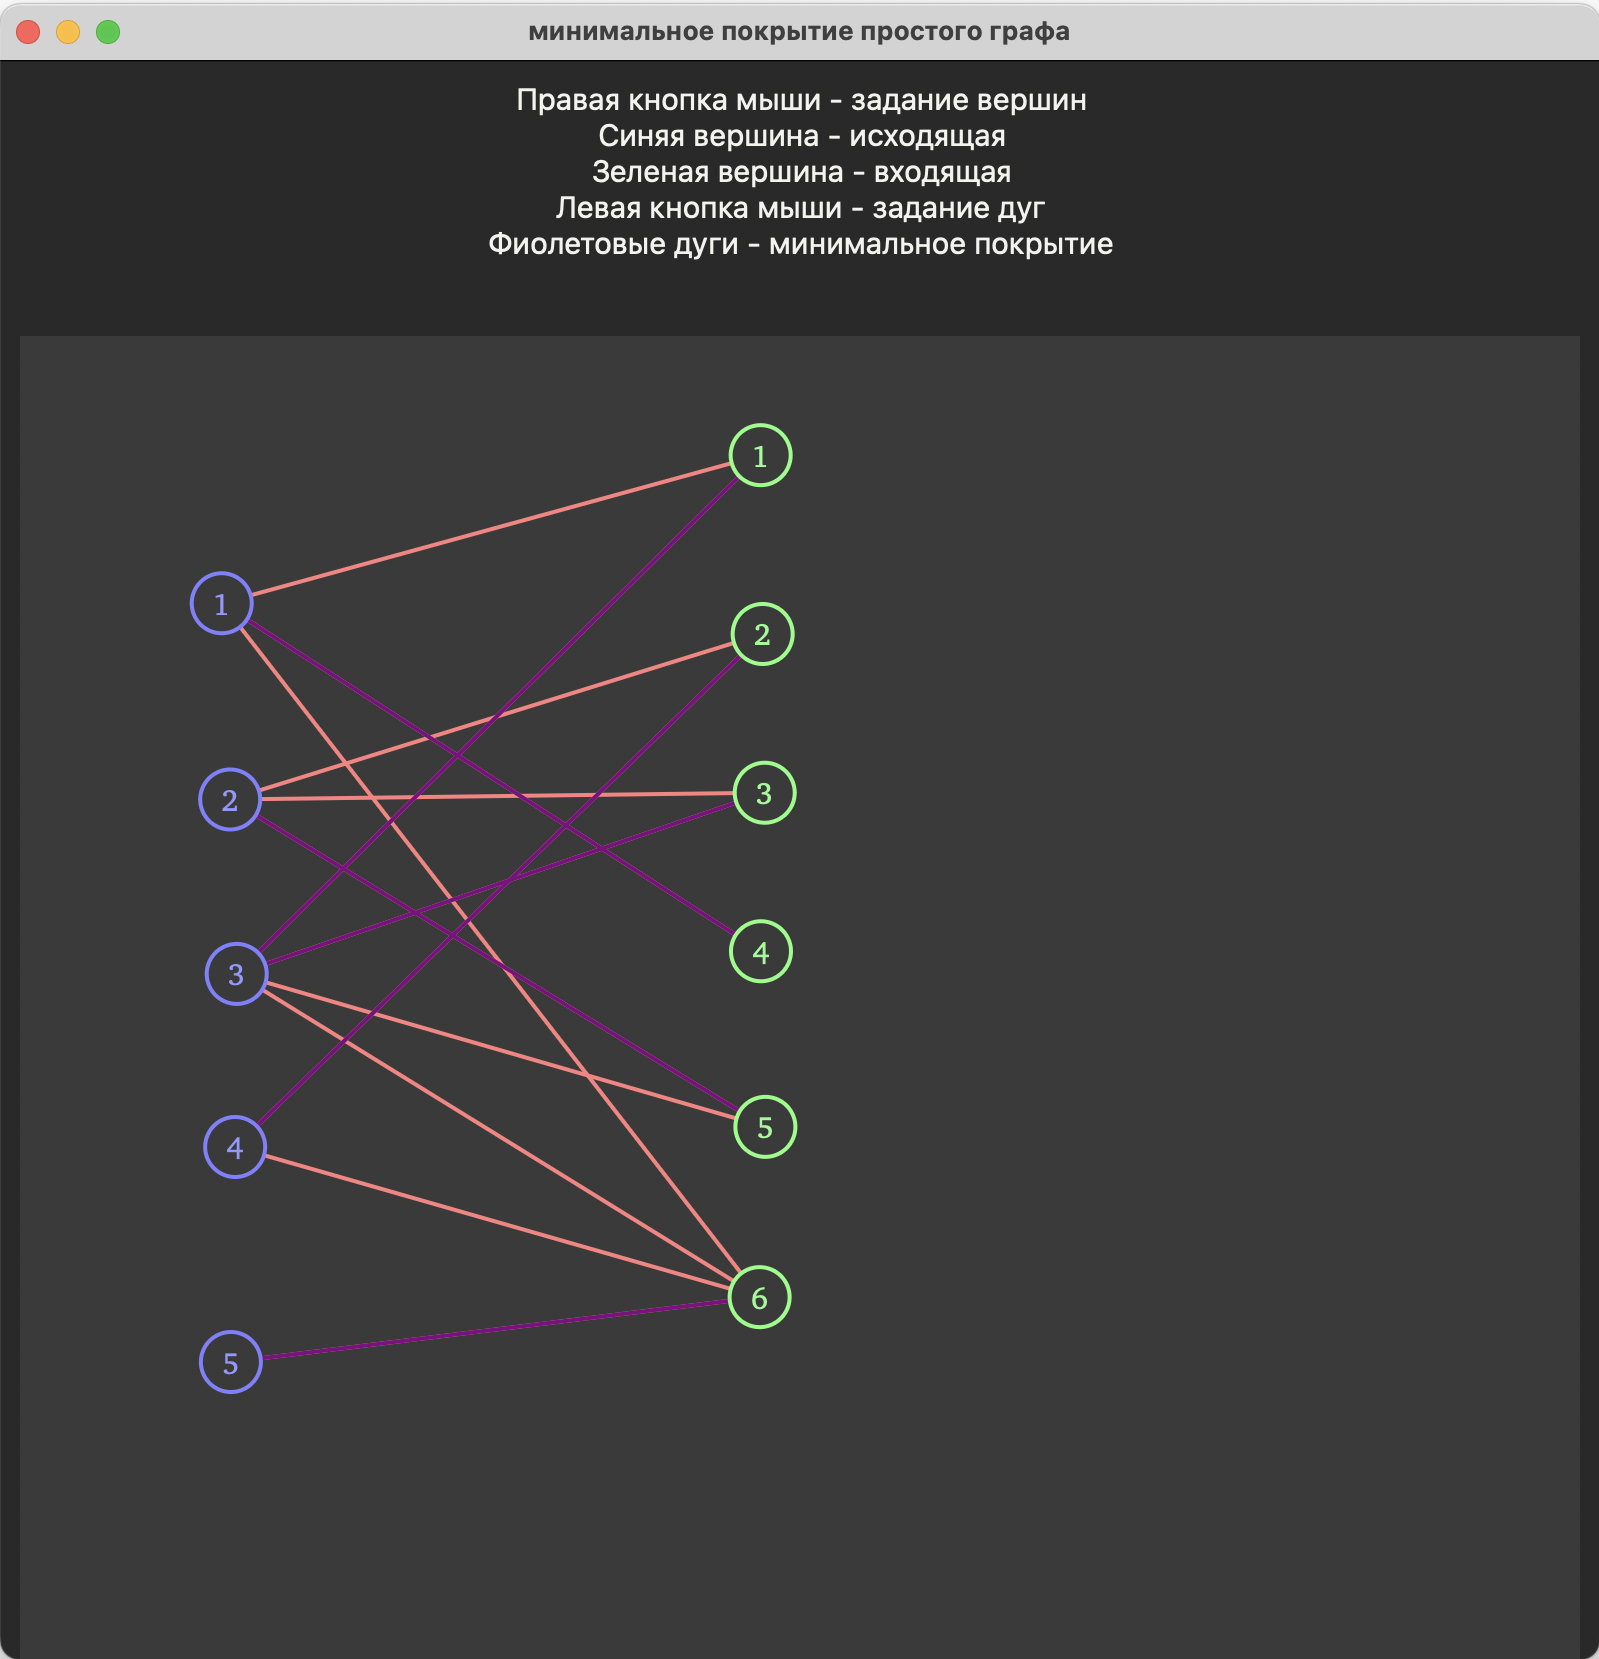
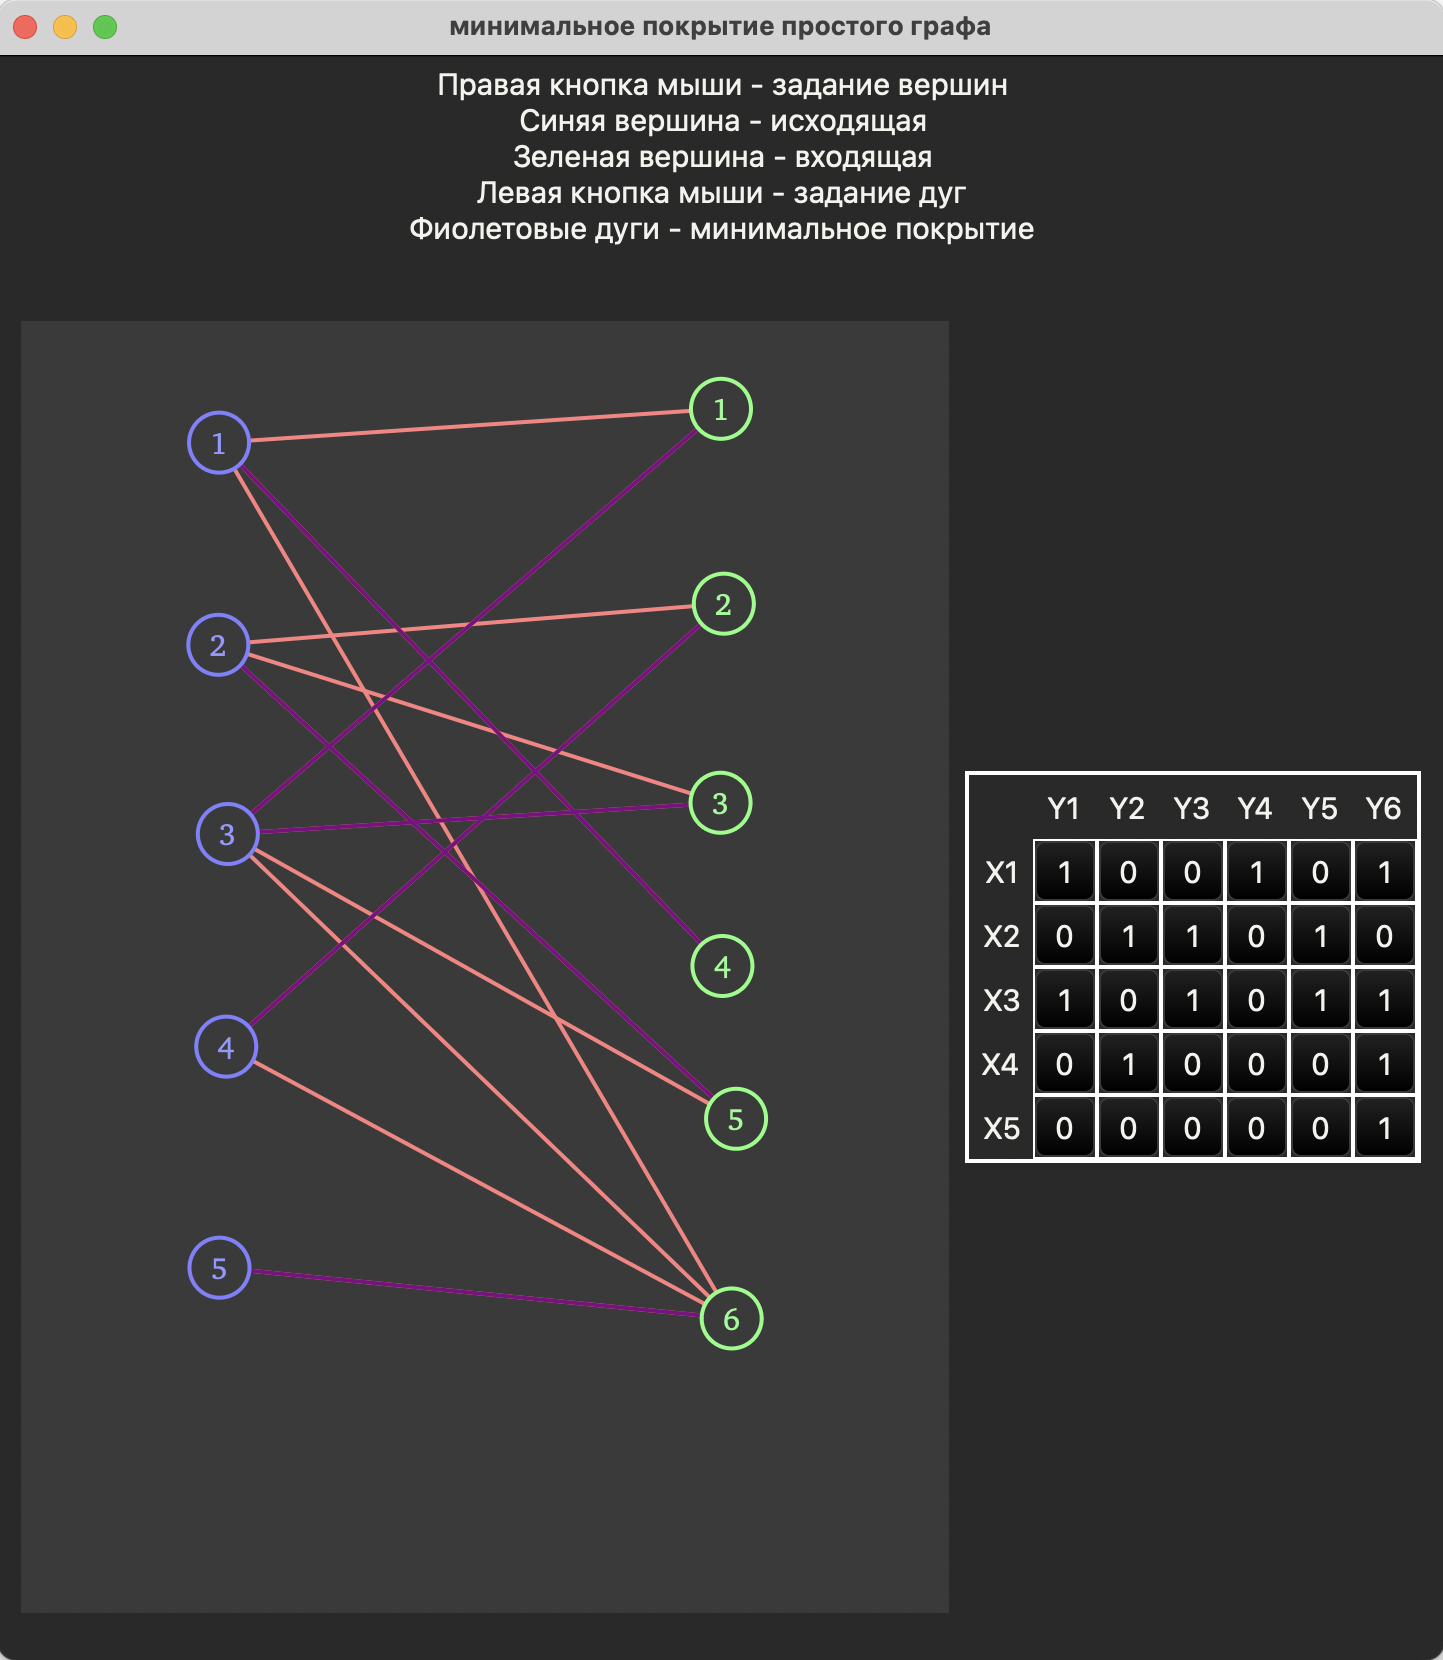
add table in text

diff --git a/project.tex b/project.tex
@@ -41,6 +41,7 @@
 \date{2024}
 \begin{document}
 \maketitle
+\setcounter{page}{15}
 
 \section{Теоретические сведения. Описание алгоритма}
 
@@ -139,6 +140,9 @@
 одной вершины в другую. Создание дуги возможно только между вершинами
 принадлежащими к разным множествам. Если вершина уже существует, то
 она будет удалена.
+
+Кроме этого, дуги можно задавать в булевой матрице $||M||$, размером $n \times m$,
+где $n = |X|$ и $m = |Y|$.
 
 Во время работы программы, она будет проверять существование
 минимального покрытия. Если оно существует, то дуги, которые в него входят,
